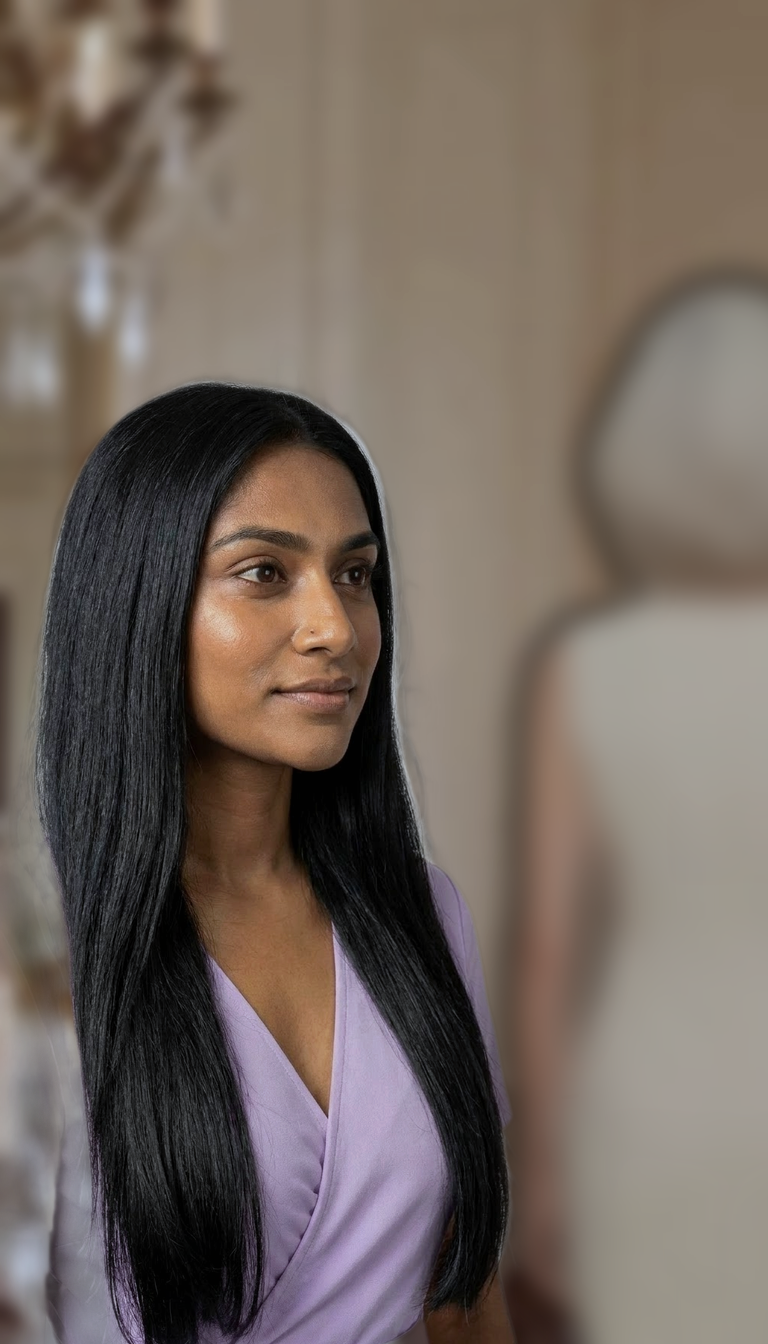
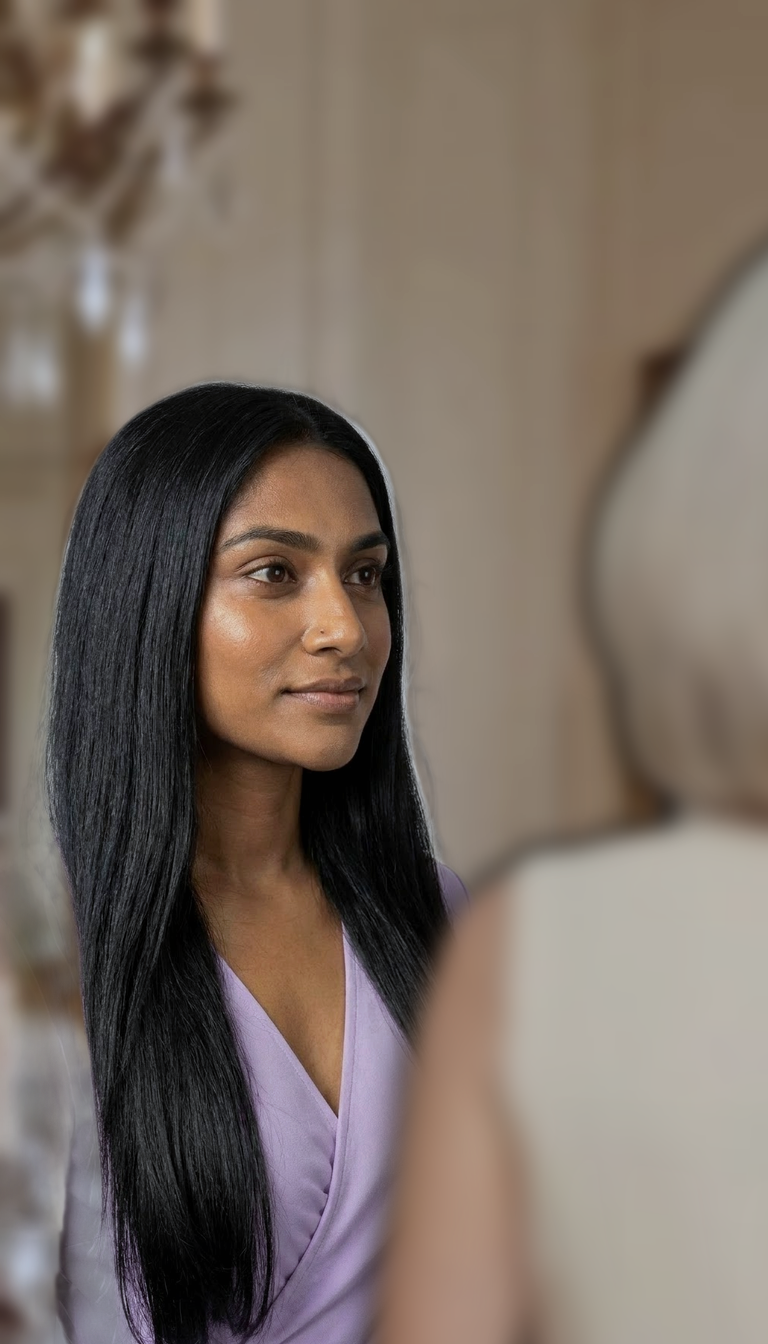
Part 2 stills: listener's back big and close at the frame edge, angled toward the speaker
Claude-Session: https://claude.ai/code/session_01PFv53KeGngBj5SrFtw8MQY

diff --git a/experiments/ai_story/make_ots_stills.py b/experiments/ai_story/make_ots_stills.py
@@ -18,16 +18,27 @@ def grade(rgba):
     r,g,b=rgb.split(); rgb=Image.merge("RGB",(r.point(lambda v:v*0.97),g,b.point(lambda v:min(255,v*1.03))))
     rgb.putalpha(a); return rgb
 def fg_back(name, side):
-    im=cut(name); crop=im.crop((100,20,670,900)); s=1.45
-    crop=crop.resize((int(crop.width*s),int(crop.height*s)),Image.LANCZOS)
-    rgb=ImageEnhance.Brightness(crop.convert("RGB")).enhance(0.7); rgb.putalpha(crop.getchannel("A"))
-    crop=rgb.filter(ImageFilter.GaussianBlur(16))
-    x=-int(crop.width*0.45) if side=="L" else W-int(crop.width*0.55)
-    return crop,(x,H-crop.height+120)
+    # Listener's back: bigger than the speaker, close to camera, only the edge of the
+    # head and one shoulder inside the frame (~12%), tilted toward the speaker.
+    im=cut(name)                                     # full 768x1376 back view, RGBA
+    al=im.getchannel("A")
+    # head = top 22% of the figure; find its left/right extent from the alpha
+    bb=al.getbbox(); top=bb[1]
+    head=al.crop((0,top,im.width,top+int((bb[3]-top)*0.18))).getbbox()
+    s=3.0
+    big=im.resize((int(im.width*s),int(im.height*s)),Image.LANCZOS)
+    big=big.rotate(6 if side=="L" else -6, resample=Image.BICUBIC, center=(big.width//2, int(top*s)))
+    rgb=ImageEnhance.Brightness(big.convert("RGB")).enhance(0.78); rgb.putalpha(big.getchannel("A"))
+    big=rgb.filter(ImageFilter.GaussianBlur(13))
+    edge = head[2]*s if side=="L" else head[0]*s      # head edge facing the speaker
+    target = W*0.20 if side=="L" else W*0.80
+    x = int(target-edge)
+    y = int(H*0.12 - top*s)
+    return big,(x,y)
 def make(id_, speaker, flip, listener, side):
     out=bg.copy(); sp=grade(cut(speaker,flip)); s=0.76
     sp=sp.resize((int(sp.width*s),int(sp.height*s)),Image.LANCZOS)
-    out.paste(sp,((W-sp.width)//2+(120 if side=="L" else -120),H-sp.height+20),sp)
+    out.paste(sp,((W-sp.width)//2+(110 if side=="L" else -110),H-sp.height+20),sp)
     f,pos=fg_back(listener,side); out.paste(f,pos,f); out.save(f"{OUT}/{id_}.png"); print(id_,flush=True)
 jobs=[("P2_L03","eleanor_34",True,"priya_back","L"),("P2_L05","eleanor_smug",False,"priya_back","L"),
 ("P2_L08","eleanor_angry",False,"priya_back","L"),("P2_L11","eleanor_shock",False,"priya_back","L"),
